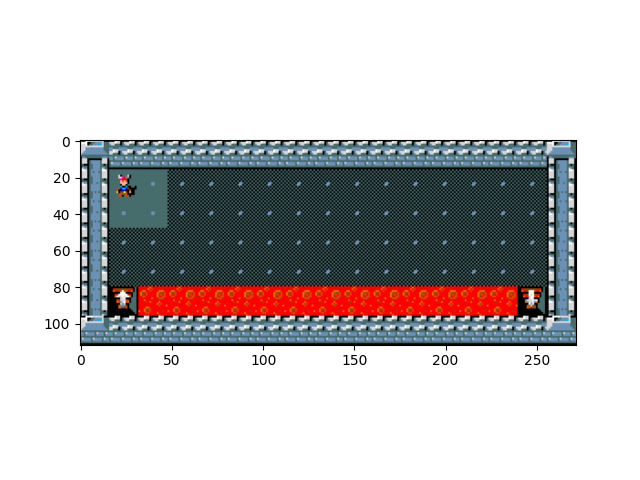
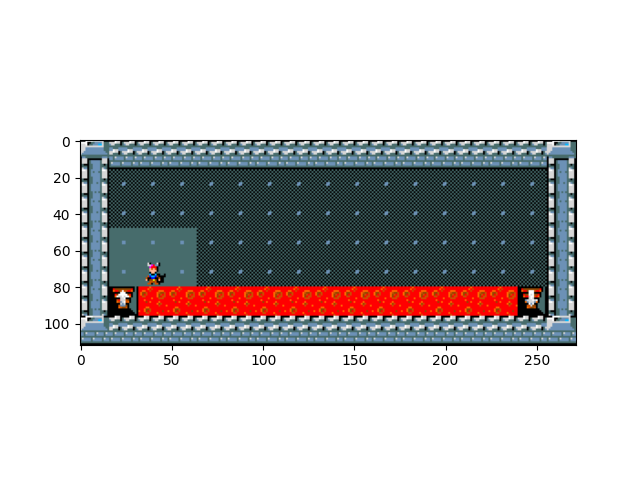
TD cliff weinig eps image

Changed region(s): [[0.1562, 0.3438, 0.3125, 0.5938]]

diff --git a/commons.py b/commons.py
@@ -575,7 +575,7 @@ class Custom_RLTask_Learning_TD_OnPolicy(AbstractRLTask):
         return average_returns
 
 
-    def visualize_episode(self, max_number_steps = None):
+    def visualize_episode(self, max_number_steps = None,save_im=False):
         """
         This function executes and plot an episode (or a fixed number 'max_number_steps' steps).
         You may want to disable some agent behaviours when visualizing(e.g. self.agent.learning = False)
@@ -604,7 +604,8 @@ class Custom_RLTask_Learning_TD_OnPolicy(AbstractRLTask):
             # self.env.render(action, reward)
             # print("Initial state", commons.get_crop_chars_from_observation(state))
             plt.imshow(get_crop_pixel_from_observation(observation))
-            plt.savefig("experiment_results/step"+str(timestep)+"_OnPolicy_cliff.png")
+            if save_im:
+                plt.savefig("experiment_results/step"+str(timestep)+"_OnPolicy_cliff.png")
 
             plt.show()
 
@@ -703,7 +704,7 @@ class Custom_RLTask_Learning_TD_OffPolicy(AbstractRLTask):
         return average_returns
 
 
-    def visualize_episode(self, max_number_steps = None):
+    def visualize_episode(self, max_number_steps = None,save_im=False):
         """
         This function executes and plot an episode (or a fixed number 'max_number_steps' steps).
         You may want to disable some agent behaviours when visualizing(e.g. self.agent.learning = False)
@@ -737,7 +738,8 @@ class Custom_RLTask_Learning_TD_OffPolicy(AbstractRLTask):
                 plt.imshow(get_crop_pixel_from_observation(self.env._get_observation(self.env.last_observation)))
             else:
                 plt.imshow(get_crop_pixel_from_observation(self.env.env._get_observation(self.env.last_observation)))
-            plt.savefig("experiment_results/step"+str(timestep)+"_OffPolicy_cliff.png")
+            if save_im:
+                plt.savefig("experiment_results/step"+str(timestep)+"_OffPolicy_cliff.png")
 
             plt.show()
 

diff --git a/quickstart.py b/quickstart.py
@@ -101,17 +101,17 @@ agent2 = commons.MonteCarloAgent('mca',empty_room_env2.action_space,epsilon)
 off_task = commons.Custom_RLTask_Learning_TD_OffPolicy(empty_room_env2,agent2,alpha=0.5,discount_factor=0.9,roomID=id)
 
 # rltask = commons.Custom_RLTask_Learning_MC(empty_room_env, agent)
-av_returns_on = on_ltask.interact(150)
-on_ltask.visualize_episode(max_number_steps=30)
+av_returns_on = on_ltask.interact(20)
+on_ltask.visualize_episode(max_number_steps=30,save_im=False)
 
-av_returns_off = off_task.interact(150)
-off_task.visualize_episode(max_number_steps=30)
+av_returns_off = off_task.interact(20)
+off_task.visualize_episode(max_number_steps=30,save_im=False)
 
 plt.plot(av_returns_on, label= "TD On Policy")
 plt.plot(av_returns_off, label= "TD Off Policy")
 plt.title("average returns")
 plt.legend()
-plt.savefig("OffPolicy_VS_OnPolicy_Cliff.png")
+plt.savefig("OffPolicy_VS_OnPolicy_Cliff_weinigEps.png")
 plt.show()
 
 
